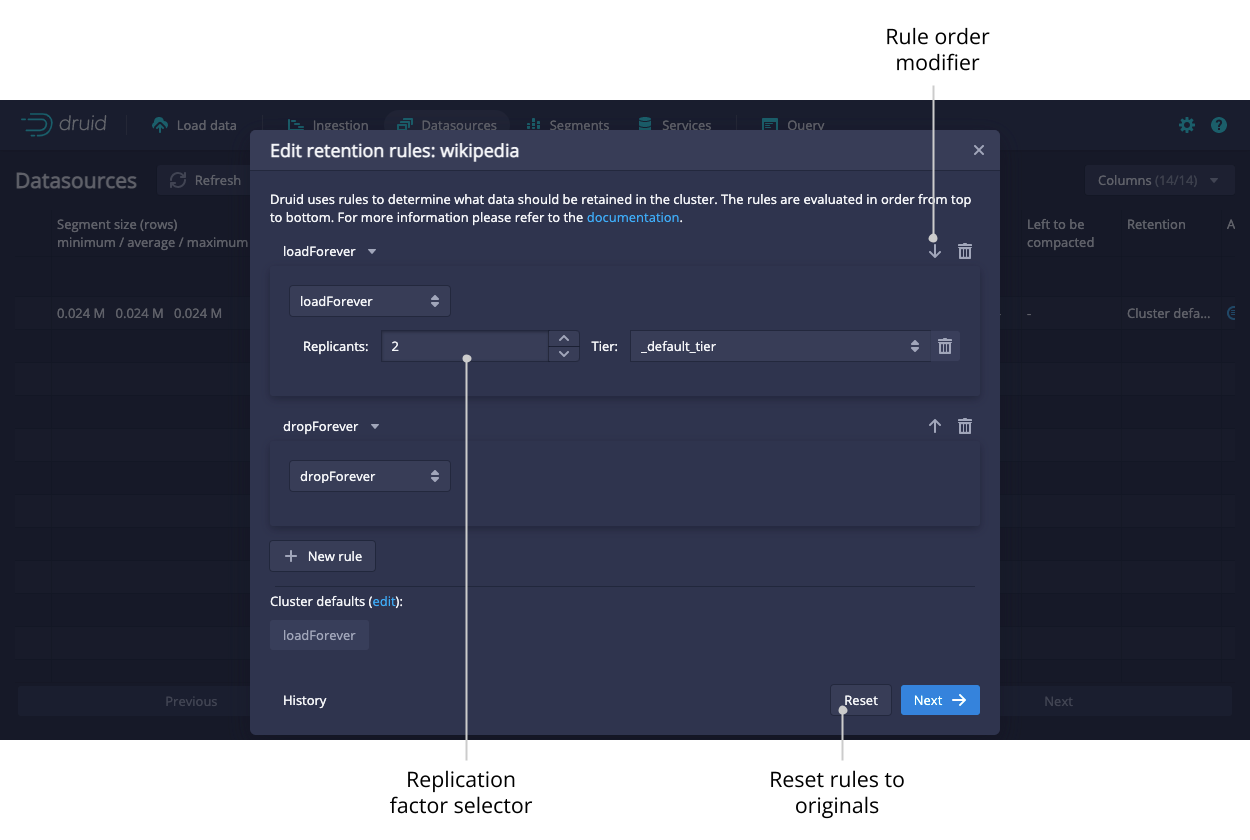
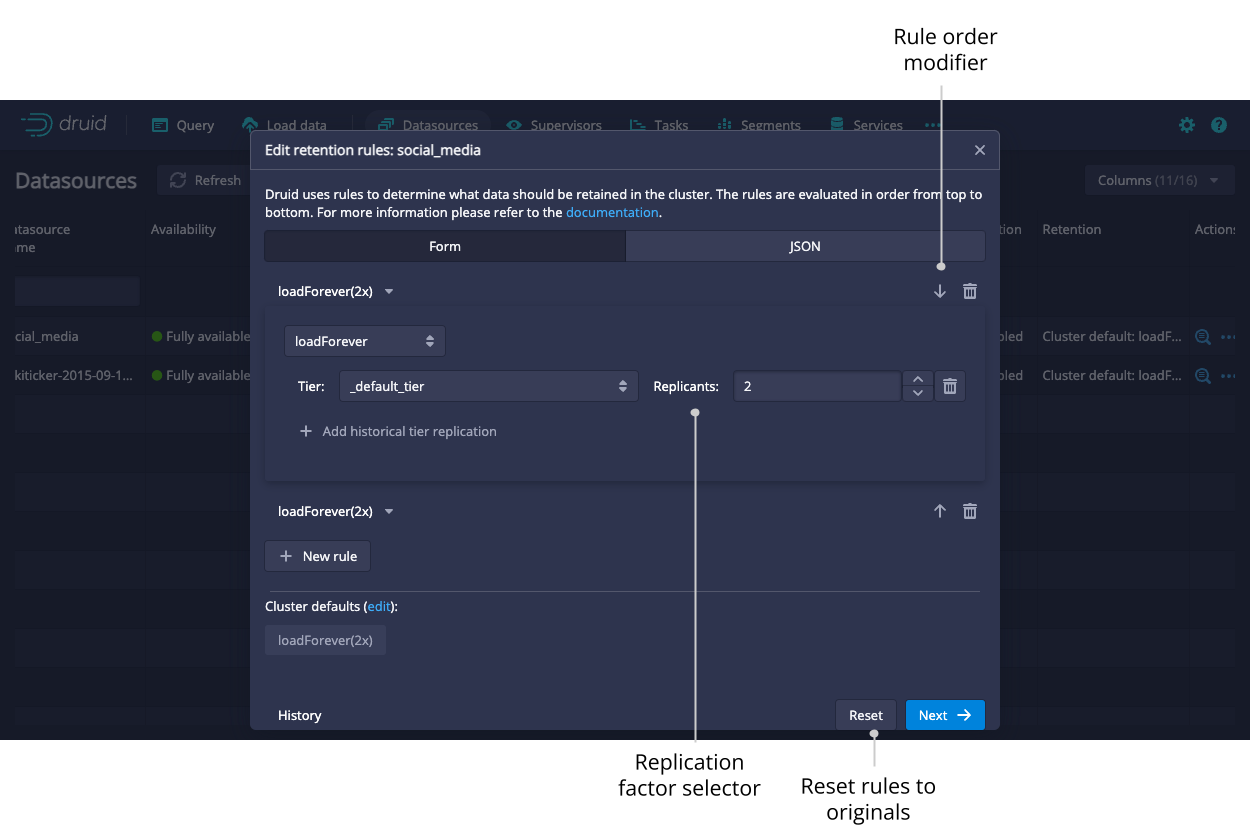
Refresh the OS Druid web console screenshots (#14397)

diff --git a/docs/operations/web-console.md b/docs/operations/web-console.md
@@ -52,14 +52,14 @@ The **Home** view displays the following cards:
 * __Status__. Click this card for information on the Druid version and any extensions loaded on the cluster.
 * [Datasources](#datasources)
 * [Segments](#segments)
-* [Supervisors](#supervisors-and-tasks)
-* [Tasks](#supervisors-and-tasks)
+* [Supervisors](#supervisors)
+* [Tasks](#tasks)
 * [Services](#services)
 * [Lookups](#lookups)
 
 You can access the [data loader](#data-loader) and [lookups view](#lookups) from the top-level navigation of the **Home** view.
 
-![home-view](../assets/web-console-01-home-view.png "home view")
+![Web console home view](../assets/web-console-01-home-view.png "home view")
 
 ## Query
 
@@ -107,7 +107,7 @@ After queries finish, you can access them by clicking on the query time indicato
 
 You can use the data loader to build an ingestion spec with a step-by-step wizard.
 
-![data-loader-1](../assets/web-console-02-data-loader-1.png)
+![Data loader tiles](../assets/web-console-02-data-loader-1.png)
 
 After selecting the location of your data, follow the series of steps displaying incremental previews of the data as it is ingested.
 After filling in the required details on every step you can navigate to the next step by clicking **Next**.
@@ -115,7 +115,7 @@ You can also freely navigate between the steps from the top navigation.
 
 Navigating with the top navigation leaves the underlying spec unmodified while clicking **Next** attempts to fill in the subsequent steps with appropriate defaults.
 
-![data-loader-2](../assets/web-console-03-data-loader-2.png)
+![Data loader ingestion](../assets/web-console-03-data-loader-2.png)
 
 ## Datasources
 
@@ -127,11 +127,11 @@ To display a timeline of segments, toggle the option for **Show segment timeline
 
 Like any view that is powered by a Druid SQL query, you can click **View SQL query for table** from the ellipsis menu to run the underlying SQL query directly.
 
-![datasources](../assets/web-console-04-datasources.png)
+![Datasources](../assets/web-console-04-datasources.png)
 
 You can view and edit retention rules to determine the general availability of a datasource.
 
-![retention](../assets/web-console-05-retention.png)
+![Retention](../assets/web-console-05-retention.png)
 
 ## Segments
 
@@ -139,38 +139,42 @@ The **Segments** view shows all the [segments](../design/segments.md) in the clu
 Each segment has a detail view that provides more information.
 The Segment ID is also conveniently broken down into Datasource, Start, End, Version, and Partition columns for ease of filtering and sorting.
 
-![segments](../assets/web-console-06-segments.png)
+![Segments](../assets/web-console-06-segments.png)
 
-## Supervisors and tasks
+## Supervisors
 
 From this view, you can check the status of existing supervisors as well as suspend, resume, and reset them.
-The supervisor oversees the state of the indexing tasks to coordinate handoffs, manage failures, and ensure that the scalability and replication requirements are maintained.
+The supervisor oversees the state of the indexing tasks to coordinate handoffs, manage failures, and ensure that the scalability and replication requirements are maintained. Submit a supervisor spec manually by clicking the ellipsis icon and selecting **Submit JSON supervisor**.
+
+![Supervisors](../assets/web-console-07-supervisors.png)
+
+Click the magnifying glass icon for any supervisor to see detailed reports of its progress.
+
+![Supervisors status](../assets/web-console-08-supervisor-status.png)
+
+## Tasks
 
 The tasks table allows you to see the currently running and recently completed tasks.
 To navigate your tasks more easily, you can group them by their **Type**, **Datasource**, or **Status**.
 Submit a task manually by clicking the ellipsis icon and selecting **Submit JSON task**.
 
-![supervisors](../assets/web-console-07-supervisors.png)
+![Tasks](../assets/web-console-0.7-tasks.png)
 
-Click on the magnifying glass for any supervisor to see detailed reports of its progress.
+Click the magnifying glass icon for any task to see more detail about it.
 
-![supervisor-status](../assets/web-console-08-supervisor-status.png)
-
-Click on the magnifying glass for any task to see more detail about it.
-
-![tasks-status](../assets/web-console-09-task-status.png)
+![Tasks status](../assets/web-console-09-task-status.png)
 
 ## Services
 
 The **Services** view lets you see the current status of the nodes making up your cluster.
-You can group the nodes by type or by tier to get meaningful summary statistics. 
+You can group the nodes by **Type** or by **Tier** to get meaningful summary statistics. 
 
-![servers](../assets/web-console-10-servers.png)
+![Services](../assets/web-console-10-servers.png)
 
 
 ## Lookups
 
-Access the **Lookups** view from the **Lookups** card in the home view or by clicking on the gear icon in the upper right corner.
+Access the **Lookups** view from the **Lookups** card in the home view or by clicking the ellipsis icon in the top-level navigation.
 Here you can create and edit query time [lookups](../querying/lookups.md).
 
-![lookups](../assets/web-console-13-lookups.png)
+![Lookups](../assets/web-console-13-lookups.png)
